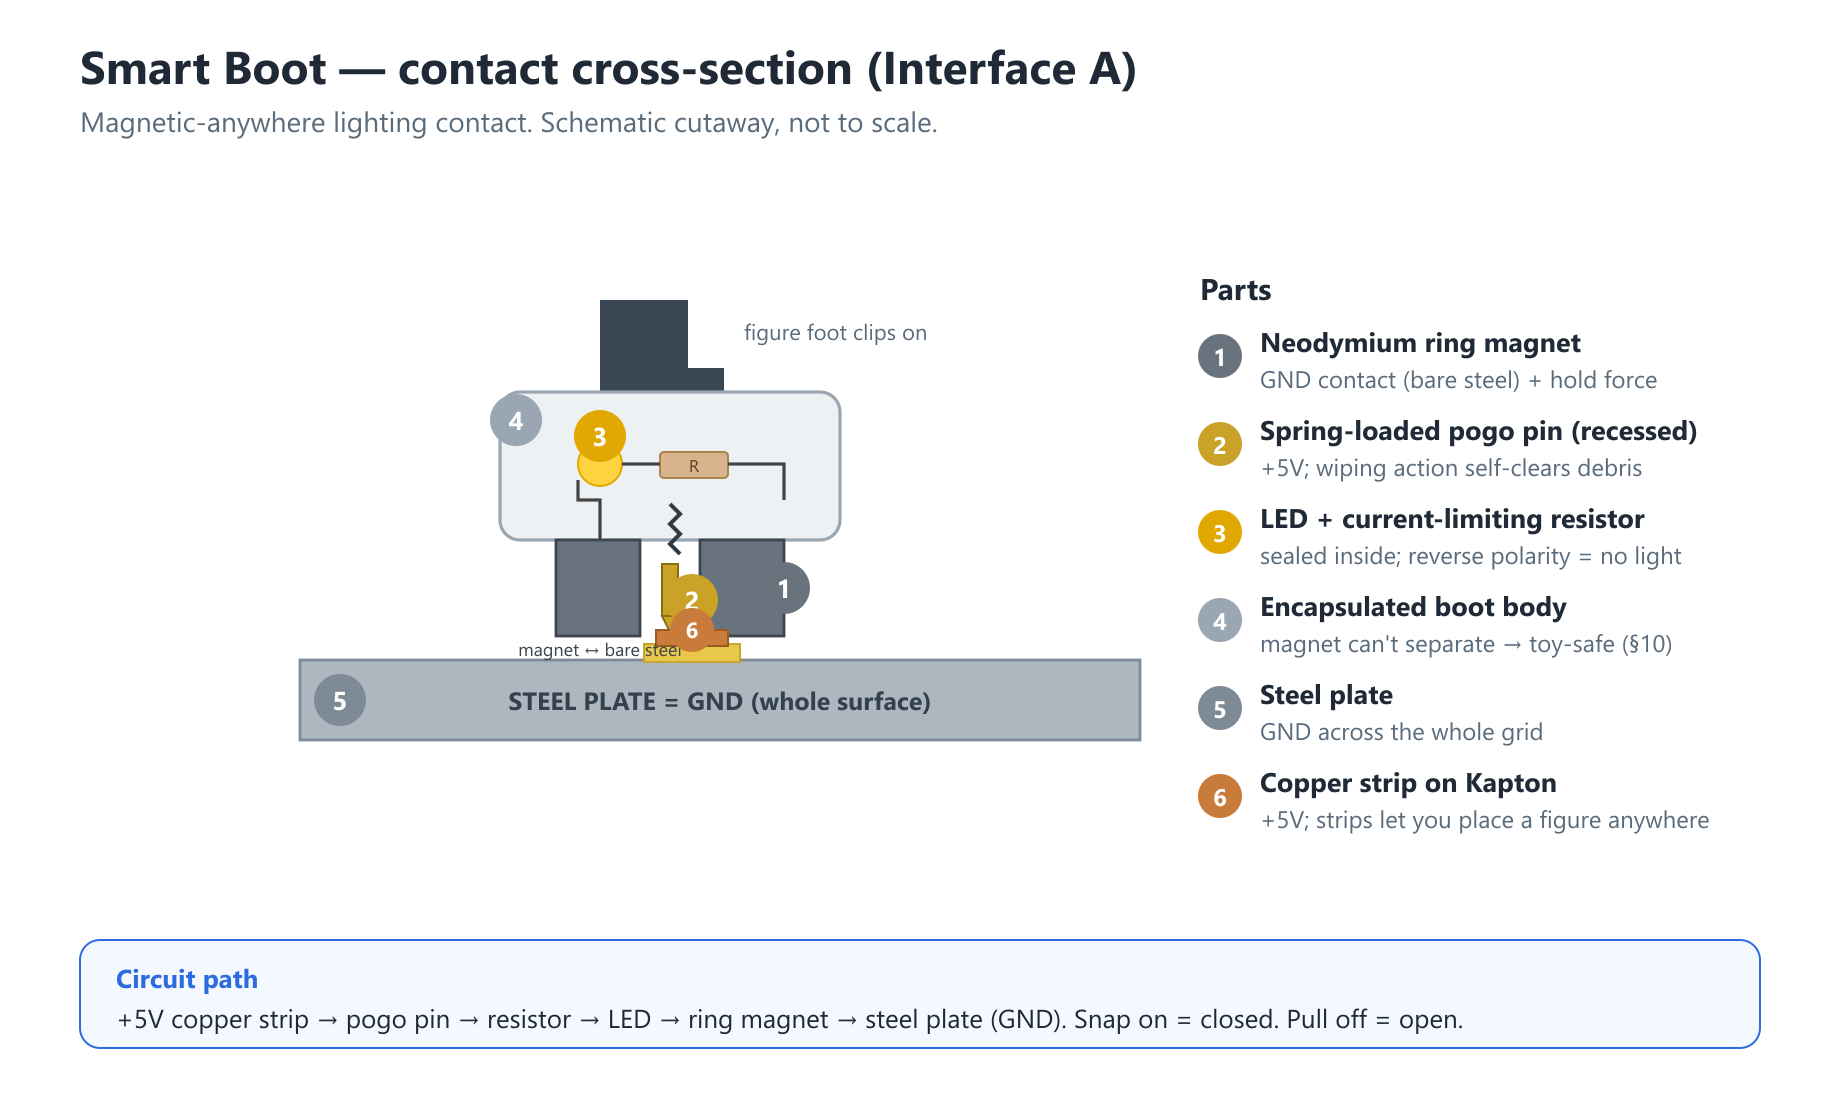
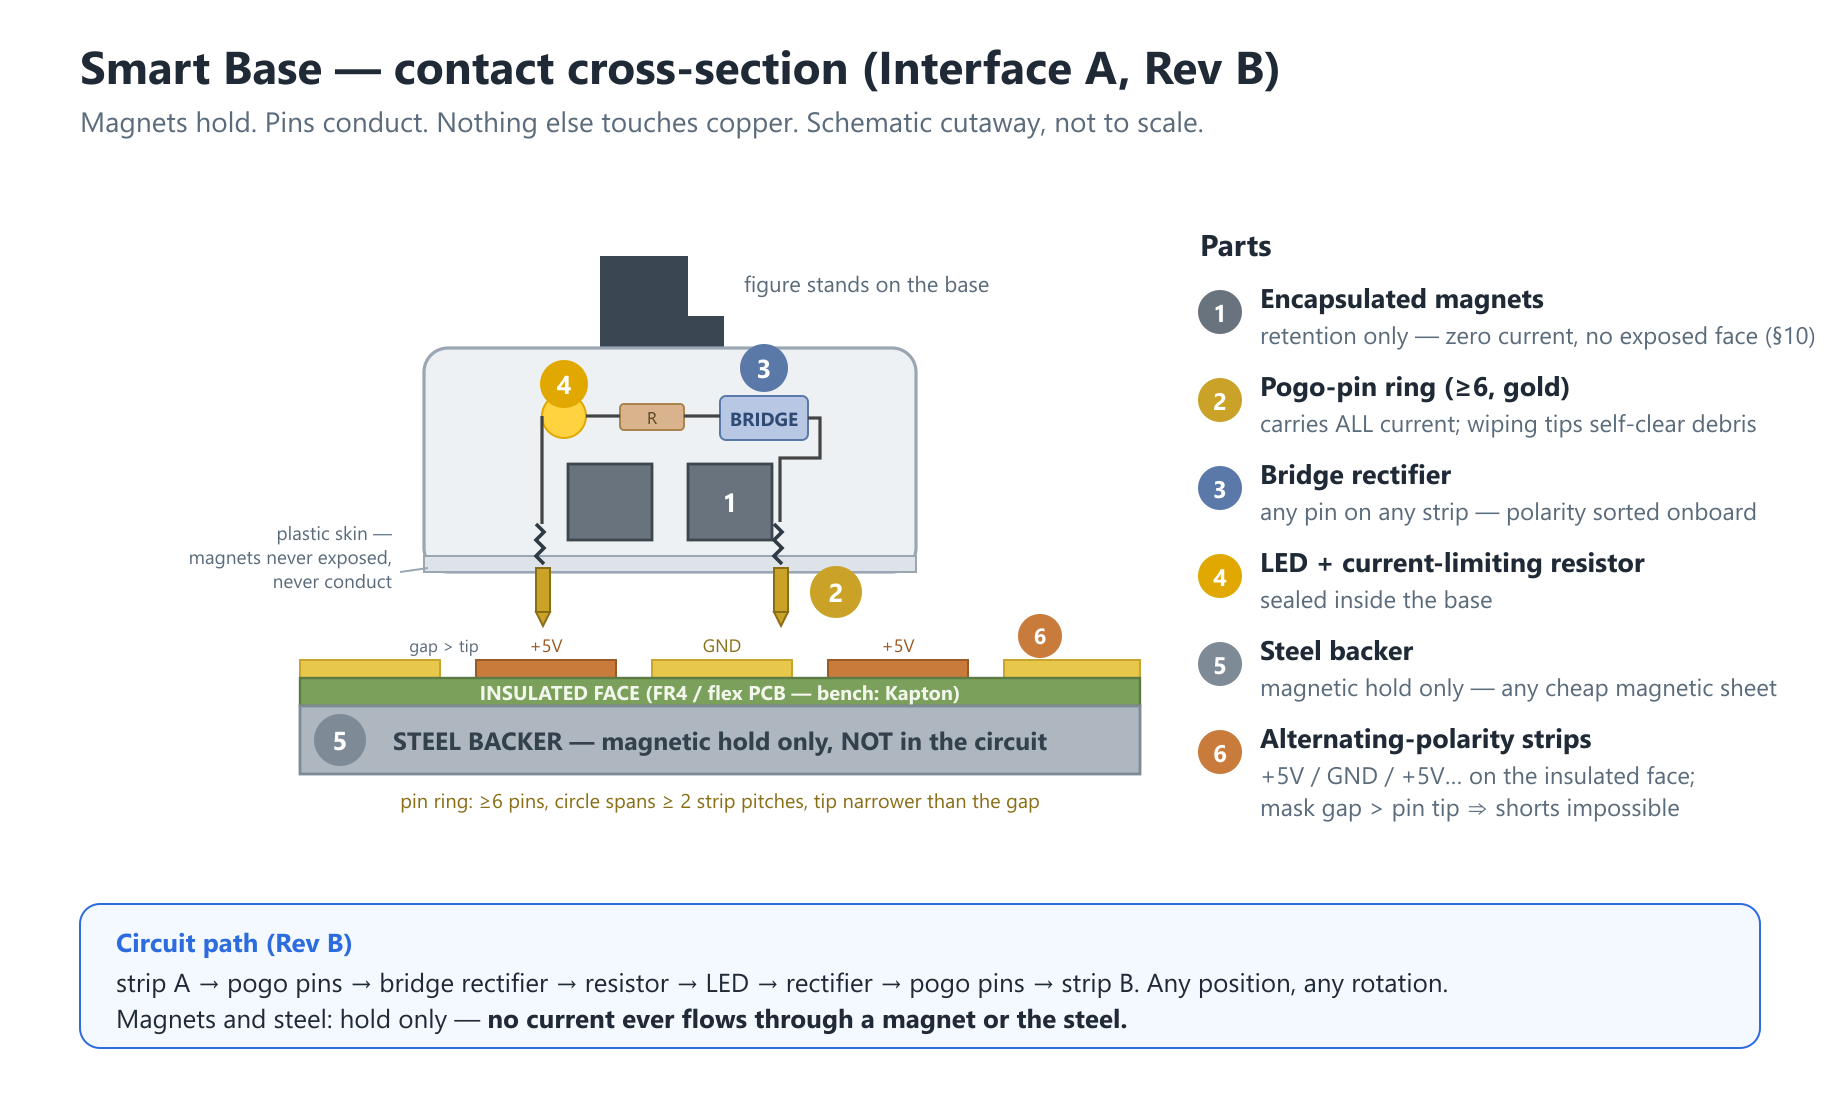
SPEC: ewiki legendary-forge — sync to Forge Rev B contact architecture
The private legendary-forge repo's design review (PR #1 there) replaced the
magnet-as-ground-conductor contact design with Rev B: retention-only fully
encapsulated magnets, all conduction through a rectified multi-pin ring
against alternating-polarity strips on an insulated PCB face over a plain
steel backer. This syncs the collaborator-facing overview: architecture
list, Interface A description + cross-section diagram, regulatory headline
(F963 routing verified; 14+ does not escape 16 CFR 1262; encapsulation =
compliant path), and the P1 gate set (A1-A8 incl. the new randomized-
placement gate).

diff --git a/wiki/legendary-forge.md b/wiki/legendary-forge.md
@@ -11,7 +11,7 @@ related:
 status: draft
 source:
   - https://github.com/barefootbetters/legendary-forge (private — canonical)
-last-reviewed: 2026-06-26
+last-reviewed: 2026-07-11
 ---
 
 > 📍 **Overview page.** The Legendary Forge diorama venture lives in its own
@@ -48,8 +48,8 @@ gets there.
 
 ![System architecture — the five plug-and-play systems and how they connect](/legendary-forge/system-architecture.png "width=50%")
 
-1. **Magnetic grid (Lite-Brite).** Conductive floor/wall plates; snap a magnetic
-   "Smart Boot" figure on anywhere and it lights up. No wiring.
+1. **Magnetic grid (Lite-Brite).** Steel-backed powered-surface panels; snap a
+   magnetic "Smart Base"-equipped figure on anywhere and it lights up. No wiring.
 2. **Smart Hub (the power strip).** A sealed box with labeled low-voltage ports —
    **Always On / Pulse / Flicker / Swing Motor / Spin Motor**. No Pi, no SD card,
    no code.
@@ -71,11 +71,19 @@ port — that's the whole manual.**
 The connector *is* the product; it's the make-or-break. There are **two** distinct
 contact problems, designed separately:
 
-**Interface A — Smart Boot ↔ grid (lighting).** Low-power, static,
+**Interface A — Smart Base ↔ grid (lighting, Rev B).** Low-power, static,
 magnetic-*anywhere* — a keyed dock would kill the "snap anywhere" mechanic, so
-reliability comes from contact geometry and materials (wiping pogo pin, plating).
+reliability is bought with contact geometry. **Rev B** (2026-07-11 design
+review): magnets are retention-only and fully encapsulated — they never carry
+current — and all conduction goes through a ring of gold pogo pins with an
+onboard rectifier, against alternating-polarity strips on an insulated PCB face
+over a plain steel backer. Pin tips narrower than the strip gaps make +/−
+shorts geometrically impossible; the pin ring makes placement and rotation
+irrelevant. (The original magnet-as-ground-conductor design shorted on
+arbitrary placement and fought the magnet-safety encapsulation rules — full
+rationale in the private repo's master plan §4.)
 
-![Smart Boot contact cross-section — ring magnet (GND + hold), recessed pogo pin (+5V), sealed LED+resistor, against the steel-plate/copper-strip grid](/legendary-forge/smart-boot-cross-section.png "width=50%")
+![Smart Base contact cross-section — encapsulated retention-only magnets, ring of gold pogo pins with bridge rectifier, sealed LED+resistor, against the steel-backed alternating-polarity PCB grid](/legendary-forge/smart-boot-cross-section.png "width=50%")
 
 **Interface B — module ↔ frame/Hub (motion).** Vibration + motor stall current →
 a **hybrid**: magnets to align, a mechanical anti-shear constraint (dock pocket +
@@ -96,20 +104,27 @@ affiliate-sourced figures at launch; licensed-character integration deferred.
 
 ## Regulatory headline
 
-Treat it as a **toy from day one**: the mandatory U.S. toy standard (ASTM F963 via
-the CPSIA) governs, with magnet-ingestion requirements front and centre. The Smart
-Boot magnet must be encapsulated to standard; age rating + CPSIA testing scope and
-FCC (for the Bluetooth module) are gating items before tooling. Full treatment in
-the master plan's regulatory section.
+Treat it as a **toy from day one**: at an 8+ age grade the mandatory U.S. toy
+standard (ASTM F963 via 16 CFR 1250) governs, with magnet requirements front and
+centre — and relabeling 14+ does *not* escape magnet regulation (16 CFR 1262
+scopes by purpose, court-upheld 2025). The compliant path is **non-separable,
+fully encapsulated magnets**, which the Rev B retention-only design satisfies by
+construction; the enclosure must still survive use-and-abuse testing without
+liberating a magnet. Age rating + CPSIA testing scope and FCC (pre-certified BT
+module, plus host-level Part 15B SDoC + composite spot-check) are gating items
+before tooling. Full treatment in the master plan's regulatory section.
 
 ## Status & next step
 
-Design is stabilized; the project is at the **prove-it-in-hardware** transition.
-The next step is the **P1 connector prototype** — one port end-to-end (LED → motor)
-plus the grid bench — gated on a binary **A1–A7** acceptance set (self-alignment
-±3 mm, no-disconnect side-bump, no-flicker vibration, 200+ cycles, full-load
-no-brownout, reverse-proof, partial-engagement clean-fail). No tooling, PCB fab,
-or inventory until P1 passes and a demand signal appears.
+Design is stabilized at **Rev B** (contact architecture revised by the
+2026-07-11 design review); the project is at the **prove-it-in-hardware**
+transition. The next step is the **P1 connector prototype** — one port
+end-to-end (LED → motor) plus the grid bench — gated on a binary **A1–A8**
+acceptance set (dock self-alignment ±3 mm, no-disconnect side-bump, no-flicker
+vibration, 200+ cycles, full-load no-brownout, reverse-proof,
+partial-engagement clean-fail, and the new **randomized-placement gate**: ≥100
+random position/rotation drops with zero dead placements and zero shorts). No
+tooling, PCB fab, or inventory until P1 passes and a demand signal appears.
 
 ## Sibling project — STEM Diorama Kit (SDK-1)
 
